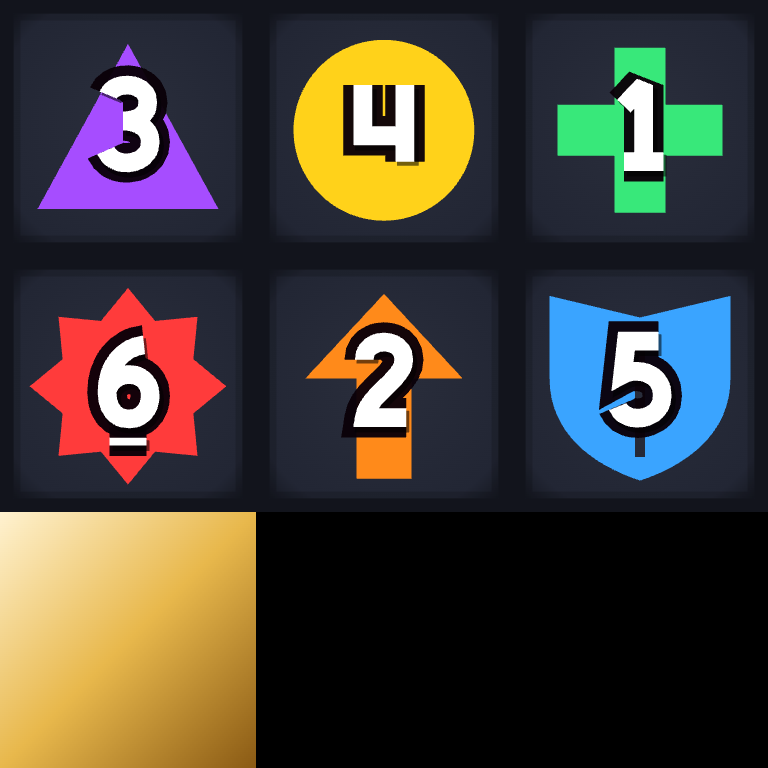
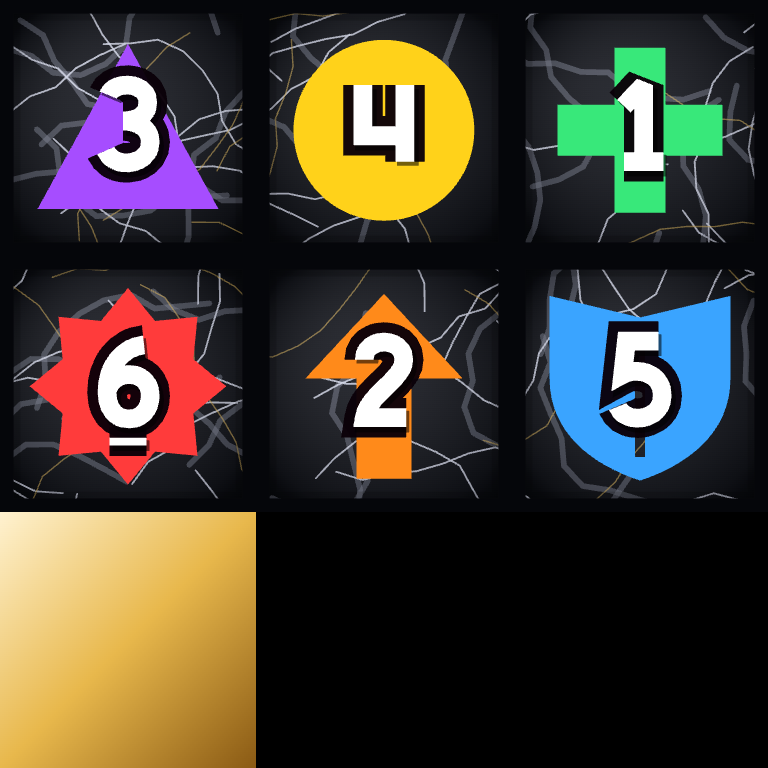
Heart die: black marble body with white and gold veins
Claude-Session: https://claude.ai/code/session_01DujDBar2Jc6ufUDBkRgkDu

diff --git a/index.html b/index.html
@@ -5,7 +5,7 @@
   <meta name="viewport" content="width=device-width, initial-scale=1, viewport-fit=cover">
   <meta name="theme-color" content="#04060d">
   <title>QuestDice</title>
-  <script type="importmap">{"imports":{"three":"./vendor/three/build/three.module.js","three/addons/":"./vendor/three/examples/jsm/","./js/auction.js":"./js/auction.js?v=20261006ar","./js/audio.js":"./js/audio.js?v=20261006ar","./js/coach.js":"./js/coach.js?v=20261006ar","./js/data.js":"./js/data.js?v=20261006ar","./js/die3d.js":"./js/die3d.js?v=20261006ar","./js/dom.js":"./js/dom.js?v=20261006ar","./js/engine.js":"./js/engine.js?v=20261006ar","./js/fx.js":"./js/fx.js?v=20261006ar","./js/g3/battle3d.js":"./js/g3/battle3d.js?v=20261006ar","./js/g3/director.js":"./js/g3/director.js?v=20261006ar","./js/g3/hudkit.js":"./js/g3/hudkit.js?v=20261006ar","./js/g3/icons.js":"./js/g3/icons.js?v=20261006ar","./js/g3/portrait.js":"./js/g3/portrait.js?v=20261006ar","./js/g3/screens.js":"./js/g3/screens.js?v=20261006ar","./js/g3/scrui.js":"./js/g3/scrui.js?v=20261006ar","./js/g3/stubs.js":"./js/g3/stubs.js?v=20261006ar","./js/g3/world.js":"./js/g3/world.js?v=20261006ar","./js/gfx/actors/base.js":"./js/gfx/actors/base.js?v=20261006ar","./js/gfx/actors/common.js":"./js/gfx/actors/common.js?v=20261006ar","./js/gfx/actors/cultist.js":"./js/gfx/actors/cultist.js?v=20261006ar","./js/gfx/actors/goblin.js":"./js/gfx/actors/goblin.js?v=20261006ar","./js/gfx/actors/goblinking.js":"./js/gfx/actors/goblinking.js?v=20261006ar","./js/gfx/actors/hero.js":"./js/gfx/actors/hero.js?v=20261006ar","./js/gfx/actors/heroclips.js":"./js/gfx/actors/heroclips.js?v=20261006ar","./js/gfx/actors/herocloth.js":"./js/gfx/actors/herocloth.js?v=20261006ar","./js/gfx/actors/herokit.js":"./js/gfx/actors/herokit.js?v=20261006ar","./js/gfx/actors/index.js":"./js/gfx/actors/index.js?v=20261006ar","./js/gfx/actors/ogre.js":"./js/gfx/actors/ogre.js?v=20261006ar","./js/gfx/actors/parts.js":"./js/gfx/actors/parts.js?v=20261006ar","./js/gfx/actors/parts2.js":"./js/gfx/actors/parts2.js?v=20261006ar","./js/gfx/actors/wolf.js":"./js/gfx/actors/wolf.js?v=20261006ar","./js/gfx/arena.js":"./js/gfx/arena.js?v=20261006ar","./js/gfx/arena/common.js":"./js/gfx/arena/common.js?v=20261006ar","./js/gfx/arena/flora.js":"./js/gfx/arena/flora.js?v=20261006ar","./js/gfx/arena/fx.js":"./js/gfx/arena/fx.js?v=20261006ar","./js/gfx/arena/ground.js":"./js/gfx/arena/ground.js?v=20261006ar","./js/gfx/arena/helpers.js":"./js/gfx/arena/helpers.js?v=20261006ar","./js/gfx/arena/kit.js":"./js/gfx/arena/kit.js?v=20261006ar","./js/gfx/arena/places1.js":"./js/gfx/arena/places1.js?v=20261006ar","./js/gfx/arena/places2.js":"./js/gfx/arena/places2.js?v=20261006ar","./js/gfx/arena/props.js":"./js/gfx/arena/props.js?v=20261006ar","./js/gfx/arena/sky.js":"./js/gfx/arena/sky.js?v=20261006ar","./js/gfx/arena/tex.js":"./js/gfx/arena/tex.js?v=20261006ar","./js/gfx/core.js":"./js/gfx/core.js?v=20261006ar","./js/gfx/demo/actor.js":"./js/gfx/demo/actor.js?v=20261006ar","./js/gfx/demo/arena.js":"./js/gfx/demo/arena.js?v=20261006ar","./js/gfx/demo/dicegallery.js":"./js/gfx/demo/dicegallery.js?v=20261006ar","./js/gfx/demo/dicelab.js":"./js/gfx/demo/dicelab.js?v=20261006ar","./js/gfx/demo/materials.js":"./js/gfx/demo/materials.js?v=20261006ar","./js/gfx/demo/tray.js":"./js/gfx/demo/tray.js?v=20261006ar","./js/gfx/demo/vfx.js":"./js/gfx/demo/vfx.js?v=20261006ar","./js/gfx/demo/weapons.js":"./js/gfx/demo/weapons.js?v=20261006ar","./js/gfx/dice/art.js":"./js/gfx/dice/art.js?v=20261006ar","./js/gfx/dice/dice.js":"./js/gfx/dice/dice.js?v=20261006ar","./js/gfx/dice/faces.js":"./js/gfx/dice/faces.js?v=20261006ar","./js/gfx/dice/fx.js":"./js/gfx/dice/fx.js?v=20261006ar","./js/gfx/dice/poly.js":"./js/gfx/dice/poly.js?v=20261006ar","./js/gfx/dice/roll.js":"./js/gfx/dice/roll.js?v=20261006ar","./js/gfx/dice/tray.js":"./js/gfx/dice/tray.js?v=20261006ar","./js/gfx/env.js":"./js/gfx/env.js?v=20261006ar","./js/gfx/mats.js":"./js/gfx/mats.js?v=20261006ar","./js/gfx/noise.js":"./js/gfx/noise.js?v=20261006ar","./js/gfx/particles.js":"./js/gfx/particles.js?v=20261006ar","./js/gfx/post.js":"./js/gfx/post.js?v=20261006ar","./js/gfx/rig.js":"./js/gfx/rig.js?v=20261006ar","./js/gfx/tex.js":"./js/gfx/tex.js?v=20261006ar","./js/gfx/util.js":"./js/gfx/util.js?v=20261006ar","./js/gfx/vfx.js":"./js/gfx/vfx.js?v=20261006ar","./js/gfx/vfx/quads.js":"./js/gfx/vfx/quads.js?v=20261006ar","./js/gfx/vfx/shaders.js":"./js/gfx/vfx/shaders.js?v=20261006ar","./js/gfx/vfx/strips.js":"./js/gfx/vfx/strips.js?v=20261006ar","./js/gfx/vfx/text.js":"./js/gfx/vfx/text.js?v=20261006ar","./js/gfx/vfx/textures.js":"./js/gfx/vfx/textures.js?v=20261006ar","./js/gfx/weapons.js":"./js/gfx/weapons.js?v=20261006ar","./js/main.js":"./js/main.js?v=20261006ar","./js/mat.js":"./js/mat.js?v=20261006ar","./js/net.js":"./js/net.js?v=20261006ar","./js/roads.js":"./js/roads.js?v=20261006ar","./js/roomui.js":"./js/roomui.js?v=20261006ar","./js/save.js":"./js/save.js?v=20261006ar","./js/table.js":"./js/table.js?v=20261006ar","./js/ui.js":"./js/ui.js?v=20261006ar","./js/view.js":"./js/view.js?v=20261006ar"}}</script>
+  <script type="importmap">{"imports":{"three":"./vendor/three/build/three.module.js","three/addons/":"./vendor/three/examples/jsm/","./js/auction.js":"./js/auction.js?v=20261006at","./js/audio.js":"./js/audio.js?v=20261006at","./js/coach.js":"./js/coach.js?v=20261006at","./js/data.js":"./js/data.js?v=20261006at","./js/die3d.js":"./js/die3d.js?v=20261006at","./js/dom.js":"./js/dom.js?v=20261006at","./js/engine.js":"./js/engine.js?v=20261006at","./js/fx.js":"./js/fx.js?v=20261006at","./js/g3/battle3d.js":"./js/g3/battle3d.js?v=20261006at","./js/g3/director.js":"./js/g3/director.js?v=20261006at","./js/g3/hudkit.js":"./js/g3/hudkit.js?v=20261006at","./js/g3/icons.js":"./js/g3/icons.js?v=20261006at","./js/g3/portrait.js":"./js/g3/portrait.js?v=20261006at","./js/g3/screens.js":"./js/g3/screens.js?v=20261006at","./js/g3/scrui.js":"./js/g3/scrui.js?v=20261006at","./js/g3/stubs.js":"./js/g3/stubs.js?v=20261006at","./js/g3/world.js":"./js/g3/world.js?v=20261006at","./js/gfx/actors/base.js":"./js/gfx/actors/base.js?v=20261006at","./js/gfx/actors/common.js":"./js/gfx/actors/common.js?v=20261006at","./js/gfx/actors/cultist.js":"./js/gfx/actors/cultist.js?v=20261006at","./js/gfx/actors/goblin.js":"./js/gfx/actors/goblin.js?v=20261006at","./js/gfx/actors/goblinking.js":"./js/gfx/actors/goblinking.js?v=20261006at","./js/gfx/actors/hero.js":"./js/gfx/actors/hero.js?v=20261006at","./js/gfx/actors/heroclips.js":"./js/gfx/actors/heroclips.js?v=20261006at","./js/gfx/actors/herocloth.js":"./js/gfx/actors/herocloth.js?v=20261006at","./js/gfx/actors/herokit.js":"./js/gfx/actors/herokit.js?v=20261006at","./js/gfx/actors/index.js":"./js/gfx/actors/index.js?v=20261006at","./js/gfx/actors/ogre.js":"./js/gfx/actors/ogre.js?v=20261006at","./js/gfx/actors/parts.js":"./js/gfx/actors/parts.js?v=20261006at","./js/gfx/actors/parts2.js":"./js/gfx/actors/parts2.js?v=20261006at","./js/gfx/actors/wolf.js":"./js/gfx/actors/wolf.js?v=20261006at","./js/gfx/arena.js":"./js/gfx/arena.js?v=20261006at","./js/gfx/arena/common.js":"./js/gfx/arena/common.js?v=20261006at","./js/gfx/arena/flora.js":"./js/gfx/arena/flora.js?v=20261006at","./js/gfx/arena/fx.js":"./js/gfx/arena/fx.js?v=20261006at","./js/gfx/arena/ground.js":"./js/gfx/arena/ground.js?v=20261006at","./js/gfx/arena/helpers.js":"./js/gfx/arena/helpers.js?v=20261006at","./js/gfx/arena/kit.js":"./js/gfx/arena/kit.js?v=20261006at","./js/gfx/arena/places1.js":"./js/gfx/arena/places1.js?v=20261006at","./js/gfx/arena/places2.js":"./js/gfx/arena/places2.js?v=20261006at","./js/gfx/arena/props.js":"./js/gfx/arena/props.js?v=20261006at","./js/gfx/arena/sky.js":"./js/gfx/arena/sky.js?v=20261006at","./js/gfx/arena/tex.js":"./js/gfx/arena/tex.js?v=20261006at","./js/gfx/core.js":"./js/gfx/core.js?v=20261006at","./js/gfx/demo/actor.js":"./js/gfx/demo/actor.js?v=20261006at","./js/gfx/demo/arena.js":"./js/gfx/demo/arena.js?v=20261006at","./js/gfx/demo/dicegallery.js":"./js/gfx/demo/dicegallery.js?v=20261006at","./js/gfx/demo/dicelab.js":"./js/gfx/demo/dicelab.js?v=20261006at","./js/gfx/demo/materials.js":"./js/gfx/demo/materials.js?v=20261006at","./js/gfx/demo/tray.js":"./js/gfx/demo/tray.js?v=20261006at","./js/gfx/demo/vfx.js":"./js/gfx/demo/vfx.js?v=20261006at","./js/gfx/demo/weapons.js":"./js/gfx/demo/weapons.js?v=20261006at","./js/gfx/dice/art.js":"./js/gfx/dice/art.js?v=20261006at","./js/gfx/dice/dice.js":"./js/gfx/dice/dice.js?v=20261006at","./js/gfx/dice/faces.js":"./js/gfx/dice/faces.js?v=20261006at","./js/gfx/dice/fx.js":"./js/gfx/dice/fx.js?v=20261006at","./js/gfx/dice/poly.js":"./js/gfx/dice/poly.js?v=20261006at","./js/gfx/dice/roll.js":"./js/gfx/dice/roll.js?v=20261006at","./js/gfx/dice/tray.js":"./js/gfx/dice/tray.js?v=20261006at","./js/gfx/env.js":"./js/gfx/env.js?v=20261006at","./js/gfx/mats.js":"./js/gfx/mats.js?v=20261006at","./js/gfx/noise.js":"./js/gfx/noise.js?v=20261006at","./js/gfx/particles.js":"./js/gfx/particles.js?v=20261006at","./js/gfx/post.js":"./js/gfx/post.js?v=20261006at","./js/gfx/rig.js":"./js/gfx/rig.js?v=20261006at","./js/gfx/tex.js":"./js/gfx/tex.js?v=20261006at","./js/gfx/util.js":"./js/gfx/util.js?v=20261006at","./js/gfx/vfx.js":"./js/gfx/vfx.js?v=20261006at","./js/gfx/vfx/quads.js":"./js/gfx/vfx/quads.js?v=20261006at","./js/gfx/vfx/shaders.js":"./js/gfx/vfx/shaders.js?v=20261006at","./js/gfx/vfx/strips.js":"./js/gfx/vfx/strips.js?v=20261006at","./js/gfx/vfx/text.js":"./js/gfx/vfx/text.js?v=20261006at","./js/gfx/vfx/textures.js":"./js/gfx/vfx/textures.js?v=20261006at","./js/gfx/weapons.js":"./js/gfx/weapons.js?v=20261006at","./js/main.js":"./js/main.js?v=20261006at","./js/mat.js":"./js/mat.js?v=20261006at","./js/net.js":"./js/net.js?v=20261006at","./js/roads.js":"./js/roads.js?v=20261006at","./js/roomui.js":"./js/roomui.js?v=20261006at","./js/save.js":"./js/save.js?v=20261006at","./js/table.js":"./js/table.js?v=20261006at","./js/ui.js":"./js/ui.js?v=20261006at","./js/view.js":"./js/view.js?v=20261006at"}}</script>
   <meta name="description" content="Roll your body. Break the dark. A fantasy dice campaign for one to six heroes, each on their own phone.">
   <meta property="og:title" content="QuestDice">
   <meta property="og:description" content="Roll your body. Break the dark.">
@@ -13,10 +13,10 @@
   <link rel="preconnect" href="https://fonts.googleapis.com">
   <link rel="preconnect" href="https://fonts.gstatic.com" crossorigin>
   <link href="https://fonts.googleapis.com/css2?family=Archivo+Black&family=Cormorant+Garamond:ital,wght@0,500;0,600;1,500&family=Inter:wght@400;500;600;700&family=Oxanium:wght@500;600;700;800&display=swap" rel="stylesheet">
-  <link rel="stylesheet" href="css/style.css?v=20261006ar">
-  <link rel="stylesheet" href="css/g3.css?v=20261006ar">
-  <link rel="stylesheet" href="css/screens.css?v=20261006ar">
-  <link rel="stylesheet" href="css/hud.css?v=20261006ar">
+  <link rel="stylesheet" href="css/style.css?v=20261006at">
+  <link rel="stylesheet" href="css/g3.css?v=20261006at">
+  <link rel="stylesheet" href="css/screens.css?v=20261006at">
+  <link rel="stylesheet" href="css/hud.css?v=20261006at">
 </head>
 <body>
   <div class="app-frame">
@@ -32,6 +32,6 @@
   <div id="toast" role="status"></div>
   <div id="modal"></div>
   <noscript><p style="padding:2rem;color:#fff">QuestDice needs JavaScript.</p></noscript>
-  <script type="module" src="js/main.js?v=20261006ar"></script>
+  <script type="module" src="js/main.js?v=20261006at"></script>
 </body>
 </html>

diff --git a/js/gfx/dice/faces.js b/js/gfx/dice/faces.js
@@ -351,7 +351,7 @@ export function buildAtlas({ poly, faces, theme, quality = 'high', key = '' }) {
       const t = spec.tone === 'b' ? 'b' : 'r';
       const P = blank ? WP[`${t}Blank`] : WP[t];
       core = P.core; mid = P.mid; edge = P.edge; if (blank) rough = 0.85;
-    } else if (ST.clean && theme === 'heart') { core = '#2a2e3c'; mid = '#222634'; edge = '#12141c'; } else if (theme === 'amethyst' && blank) { if (th.neutral) { core = '#2a7f87'; mid = '#1d6068'; edge = '#0e3a40'; } else { core = '#3e2c66'; mid = '#241840'; edge = '#0c0618'; } rough = 0.8; } else if (theme === 'heart' && spec.tone === 'b') { core = '#f4a822'; mid = '#c4620a'; edge = '#5e1e04'; } else { core = th.core; mid = th.mid; edge = th.edge; }
+    } else if (ST.clean && theme === 'heart') { core = '#15171f'; mid = '#0d0f15'; edge = '#05060a'; } else if (theme === 'amethyst' && blank) { if (th.neutral) { core = '#2a7f87'; mid = '#1d6068'; edge = '#0e3a40'; } else { core = '#3e2c66'; mid = '#241840'; edge = '#0c0618'; } rough = 0.8; } else if (theme === 'heart' && spec.tone === 'b') { core = '#f4a822'; mid = '#c4620a'; edge = '#5e1e04'; } else { core = th.core; mid = th.mid; edge = th.edge; }
 
     // ---- body: fill whole cell with edge colour, then the face gradient, swirls, speckle
     ctxs.A.fillStyle = edge; ctxs.A.fillRect(-S / 2, -S / 2, S, S);
@@ -361,7 +361,14 @@ export function buildAtlas({ poly, faces, theme, quality = 'high', key = '' }) {
     if (ST.clean) { g.addColorStop(0, core); g.addColorStop(0.8, mid); g.addColorStop(1, edge); } else { g.addColorStop(0, core); g.addColorStop(0.55, mid); g.addColorStop(1, edge); }
     A.fillStyle = g; A.beginPath(); pts.forEach((p, i) => (i ? A.lineTo(p[0], p[1]) : A.moveTo(p[0], p[1]))); A.closePath(); A.fill();
     A.save(); A.beginPath(); pts.forEach((p, i) => (i ? A.lineTo(p[0], p[1]) : A.moveTo(p[0], p[1]))); A.closePath(); A.clip();
-    if (ST.clean) { /* flat colour: no swirls, no speckle */ } else if (theme === 'weapon') {
+    if (ST.clean && theme === 'heart') {
+      // the heart die is black marble: deep stone with fine white and gold veins
+      const vein = (col, w, n, wob) => { A.strokeStyle = col; A.lineWidth = w; A.lineCap = 'round';
+        for (let i = 0; i < n; i++) { let x = (rnd() * 2 - 1) * Rpx; let y = (rnd() * 2 - 1) * Rpx; let a = rnd() * Math.PI * 2; A.beginPath(); A.moveTo(x, y);
+          for (let k = 0; k < 9; k++) { a += (rnd() - 0.5) * wob; x += Math.cos(a) * Rpx * 0.17; y += Math.sin(a) * Rpx * 0.17; A.lineTo(x, y); } A.stroke(); } };
+      A.globalAlpha = 0.5; vein('#8a90a6', inR * 0.07, 12, 1.6); A.globalAlpha = 0.95; vein('#eef0fb', inR * 0.024, 16, 1.2); A.globalAlpha = 0.8; vein('#e0b858', inR * 0.02, 8, 1.1); A.globalAlpha = 1;
+      const gl = A.createRadialGradient(-inR * 0.3, -inR * 0.4, 0, 0, 0, inR * 1.3); gl.addColorStop(0, 'rgba(255,255,255,0.10)'); gl.addColorStop(1, 'rgba(0,0,0,0.22)'); A.fillStyle = gl; A.fillRect(-S / 2, -S / 2, S, S);
+    } else if (ST.clean) { /* flat colour: no swirls, no speckle */ } else if (theme === 'weapon') {
       const dark = blank ? ['#000', '#100508'] : ['#000', '#1a0408', spec.tone === 'b' ? '#031024' : '#2a0208'];
       const light = spec.tone === 'b' ? ['#7cc4ff', '#2f8cf5'] : ['#ff7a5a', '#ff3a3a'];
       swirls(A, rnd, Rpx, dark, 14, 0.7 * sw, inR * 0.5);
